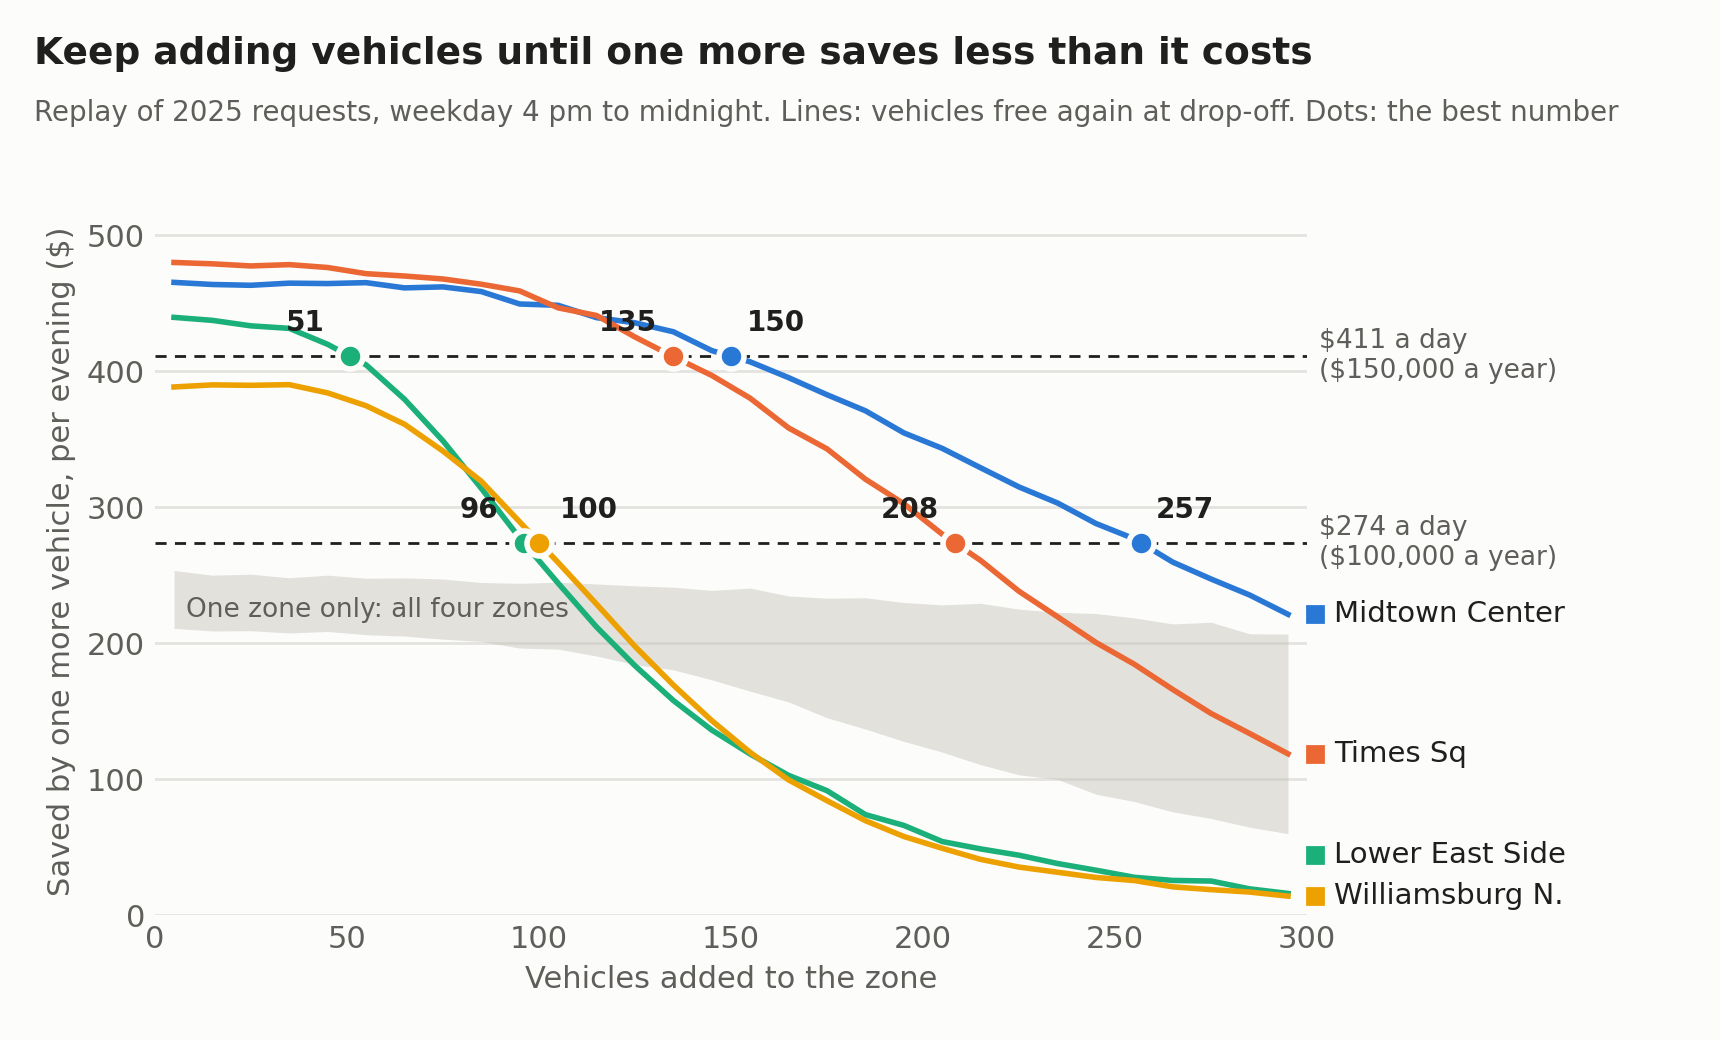
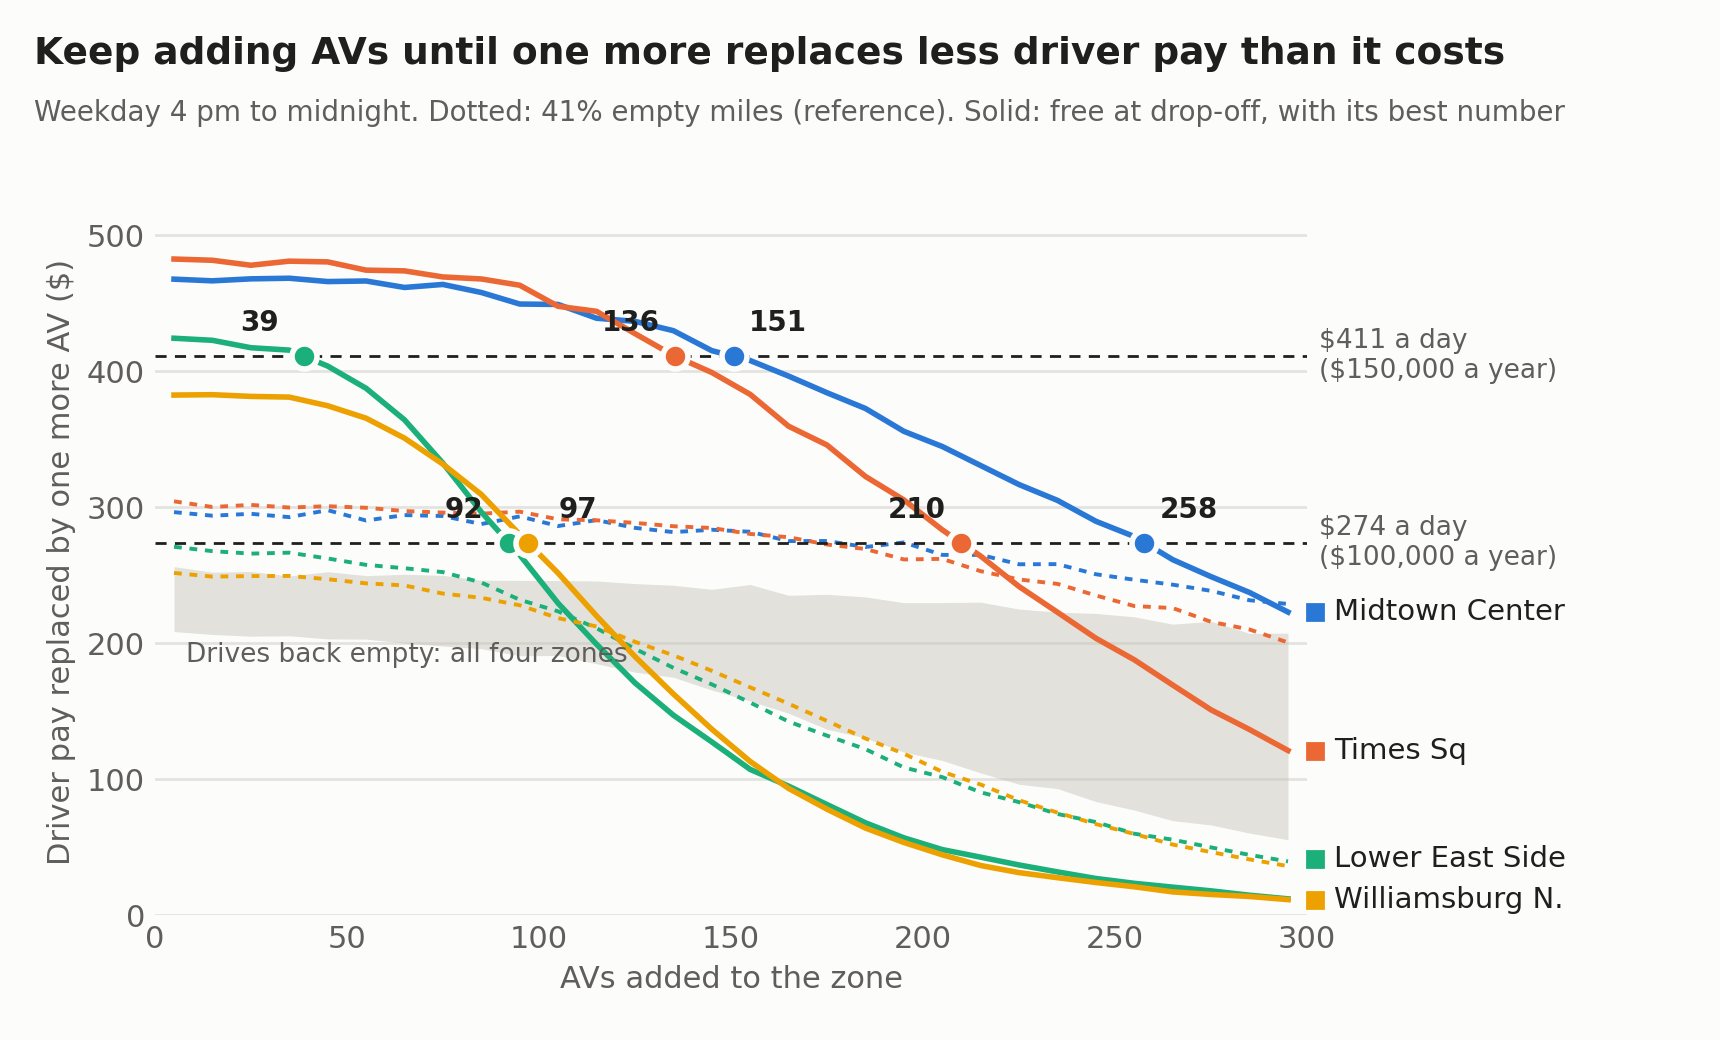
Correct the AV versus driver numbers and add the 41% empty-mile run

diff --git a/_projects/2026-nyc-robotaxi-when-not-where.md b/_projects/2026-nyc-robotaxi-when-not-where.md
@@ -16,7 +16,7 @@ I looked for the places where New York runs short of rides, and I found times of
 - **Busy and slow.** Only 4.4% of trips were both, less than the 6.25% expected by chance, and 81% of them fell in three time blocks.
 - **Weather.** Rain added about 5 seconds to the wait and snow about 16. The gap between time blocks was 98 seconds.
 - **Break-even.** A robotaxi that costs $100,000 a year needs about 14 trips a day; at $150,000 it needs 21.
-- **AV versus driver.** Under my assumptions, in four long-wait zones on weekday evenings one AV takes over trips worth $383 to $476 in driver pay, against a fixed cost of $274 a day, so the AV is cheaper. If it has to drive back empty after each trip, the figure falls to $208–$250 and the driver is cheaper.
+- **AV versus driver.** I replayed real requests with AVs taking over trips in four long-wait zones. With 41% of its miles empty, one AV replaces $248 to $300 of driver pay in a weekday evening, against a fixed cost of $274 a day: about level. The answer turns on how much the AV drives empty ($205–$252 if it drives all the way back, $374–$479 if it never drives empty) and on what it costs.
 
 ## 1. Near stations: more rides, but not a longer wait
 {: #study-scope }
@@ -72,74 +72,67 @@ The first three sections did not find places where cars run short, so I could no
 
 ### How it was run
 
-I cannot put real vehicles on the street, so this was run as a replay. It takes the 4.76 million real trips of 2025 from four zones (Midtown Center, Times Sq/Theatre District, Lower East Side, Williamsburg North Side) and plays the requests back in the order they came in. An added vehicle takes a rider only when it would arrive sooner than the real driver did. Human drivers are assumed not to react.
+I cannot put real vehicles on the street, so this was run as a replay. It takes the 4.76 million real trips of 2025 from four zones (Midtown Center, Times Sq/Theatre District, Lower East Side, Williamsburg North Side) and plays the requests back in the order they came in. An AV takes a rider only when it would arrive sooner than the real driver did. Human drivers are assumed not to react.
 
-One rule changes the result more than anything else: what the vehicle does after it drops a rider off. I ran both ends.
+One rule changes the result more than anything else: what the AV does after it drops a rider off outside the zone. I ran three versions.
 
 | Rule | What it means | Miles driven empty |
 | --- | --- | ---: |
-| Free again at drop-off (main run) | The vehicle can take the next request in the zone right away | 3–6% |
-| One zone only | The vehicle picks up only in its zone, so it drives back empty after almost every trip | about 51% |
-
-The main run is the best case, because a real vehicle has to find its next rider near where it dropped the last one, and those riders are not in my four zones. The one-zone run is the worst case. Waymo's California reports put empty miles at about 41%, so I read the two runs as a range, not as two forecasts.
+| Drives all the way back | The AV picks up only in its zone and returns empty after almost every trip. The lower edge | about 51% |
+| Part of the way back (reference) | The AV needs about two thirds of the trip time before its next request. I set this so that 41% of its miles are empty, the share Waymo reports in California and the share the break-even used | 41% |
+| Free again at drop-off | The AV is back in the zone the moment the rider gets out. This cannot happen; it is the upper edge | 3–7% |
 
 ### AV versus driver: replaced driver pay against fixed cost
 
 For each AV I used the same idea as the break-even: what it leaves = driver pay on the trips it took over − its driving cost − its fixed cost per day.
 
-**Under my assumptions the AV is cheaper.** In all four zones one AV replaces $383 to $476 of driver pay in a weekday evening, against a fixed cost of $274 a day.
+![Driver pay one AV replaces in 8 evening hours under the three rules, against a fixed cost of $274 and $411 a day]({{ '/assets/img/projects/nyc-robotaxi-saved-per-vehicle.png' | relative_url }})
 
-![What one added vehicle saves in 8 evening hours under the two rules, against a fixed cost of $274 and $411 a day]({{ '/assets/img/projects/nyc-robotaxi-saved-per-vehicle.png' | relative_url }})
+Weekday, 4 pm to midnight, 70 AVs in the zone, per AV:
 
-| Zone | Trips in 8 hours, main run | Saved, main run | Saved, one zone only |
-| --- | ---: | ---: | ---: |
-| Midtown Center | 18.7 | $464 | $243 |
-| Times Sq / Theatre District | 18.1 | $476 | $250 |
-| Lower East Side | 21.1 | $421 | $228 |
-| Williamsburg North Side | 20.6 | $383 | $208 |
+| Zone | Trips in 8 hours (reference) | Drives all the way back | Reference, 41% empty | Free at drop-off |
+| --- | ---: | ---: | ---: | ---: |
+| Midtown Center | 12.0 | $245 | $294 | $466 |
+| Times Sq / Theatre District | 11.6 | $252 | $300 | $479 |
+| Lower East Side | 13.9 | $220 | $264 | $405 |
+| Williamsburg North Side | 13.7 | $205 | $248 | $374 |
 
-- **In the main run, one weekday evening covers the day.** Every zone clears $274 a day ($100,000 a year), and three of the four clear $411 ($150,000 a year).
-- **Under the one-zone rule it does not.** The same evening covers 76% to 91% of $274, and the rest would have to come from the other 16 hours, which I did not look at.
-- **The difference is empty driving.** The riders, the fares and the zones are the same in both runs. Only the drive back changes, and it nearly halves the trips a vehicle can take.
-- **Longer waits, larger saving.** Within each zone I compared evenings with short real waits and evenings with long ones. For every extra minute of wait, one AV replaced about $21 more driver pay (about 5%). In Midtown Center it was $434 on short-wait evenings and $505 on long-wait ones. The AV does not take more trips on those evenings; each trip takes longer and pays the driver more.
+- **At 41% empty miles the AV and the driver cost about the same.** One AV replaces $248 to $300 of driver pay in the eight evening hours, against $274 a day ($100,000 a year). That is about $20 to $26 above the cost in Midtown Center and Times Sq, about $10 below in Lower East Side and $26 below in Williamsburg. None reaches $411 ($150,000 a year). Differences this small do not decide it.
+- **The edges are far apart.** If the AV drives all the way back it replaces $205 to $252, and the driver is cheaper. If it never drove empty it would replace $374 to $479, and the AV would be cheaper.
+- **So the answer turns on empty driving and on the assumed cost.** The riders, the fares and the zones are the same in all three versions. Only the time after a drop-off changes.
+- **Only the evening is counted.** $274 is the cost of a whole day, and the pay replaced comes from eight evening hours on weekdays. What the AV does in the other 16 hours would come on top, and I did not look at it.
+- **Evenings with longer waits.** On evenings with longer waits one AV replaced more pay, about $13 more for every extra minute of wait in the reference run (about 5%), although it took fewer trips. Trips are longer and pay the driver more on those evenings. This is a pattern across evenings, not an effect of waiting: it disappears once the evening's level of driver pay is held fixed.
 
 ### How many AVs
 
-The number of AVs in a zone is a whole number n, and I chose it to make this as large as possible: S(n) − c·n, where S(n) is the driver pay that n AVs replace in an evening and c is the fixed cost of one AV per day. S(n) has no formula, because it comes out of the replay, so I ran every n from 10 to 300 in steps of 10 and kept the best one. The rule this gives is simple: keep adding AVs until one more replaces less driver pay than it costs.
+The number of AVs in a zone is a whole number n, and the best one makes this as large as possible: S(n) − c·n, where S(n) is the driver pay that n AVs replace in an evening and c is the fixed cost of one AV per day. S(n) has no formula, because it comes out of the replay, so I ran every n from 10 to 300 in steps of 10 and kept the best one. The rule this gives is simple: keep adding AVs until one more replaces less driver pay than it costs.
 
-![Driver pay replaced by one more AV against vehicles added, four zones, with fixed-cost lines at $274 and $411 a day]({{ '/assets/img/projects/nyc-robotaxi-fleet-size.png' | relative_url }})
+![Driver pay replaced by one more AV against AVs added, four zones, with fixed-cost lines at $274 and $411 a day]({{ '/assets/img/projects/nyc-robotaxi-fleet-size.png' | relative_url }})
 
-| Zone | Requests in an evening | Best number at $274 a day | Best number at $411 a day |
-| --- | ---: | ---: | ---: |
-| Midtown Center | 5,088 | about 260 | about 150 |
-| Times Sq / Theatre District | 4,059 | about 210 | about 130 |
-| Lower East Side | 2,765 | about 100 | about 50 |
-| Williamsburg North Side | 2,901 | about 100 | 0 |
-
-The top of each curve is flat, so these are rough numbers. At the best number the AVs serve 70% to 80% of the zone's requests, which is where the assumption that drivers do not react is weakest. Under the one-zone rule the best number is zero in every zone.
+In the reference run the curves sit within about $25 of the $274 line, so the number of AVs is not pinned down. In Midtown Center the best number is about 180 at $274 a day, about 250 at $249 and zero at $299. If the AV drives all the way back, the best number is zero in every zone. At the upper edge it would be about 90 to 260 per zone, and at that point the AVs would serve 70% to 80% of the zone's requests, which is where the assumption that drivers do not react is weakest.
 
 ### What riders get: shorter waits
 
 The waits were measured a little differently from the money. For the money, AVs take over trips. For the waits, the real drivers are still there and AVs are added on top of them.
 
-![Average wait against vehicles added, weekday 4 pm to midnight, four zones, main run]({{ '/assets/img/projects/nyc-robotaxi-wait-by-vehicles.png' | relative_url }})
+![Average wait against AVs added, weekday 4 pm to midnight, four zones, reference run]({{ '/assets/img/projects/nyc-robotaxi-wait-by-vehicles.png' | relative_url }})
 
-Weekday, 4 pm to midnight, 70 vehicles added:
+Weekday, 4 pm to midnight, 70 AVs added, reference run:
 
-| Zone | Average wait, main run | Average wait, one zone only | Waiting over 5 min 45 s, main run |
+| Zone | Average wait | Waiting over 5 min 45 s | Requests the AVs served |
 | --- | ---: | ---: | ---: |
-| Midtown Center | 320 → 268 s | 320 → 292 s | 33.7% → 24.0% |
-| Times Sq / Theatre District | 336 → 268 s | 336 → 299 s | 36.2% → 24.3% |
-| Lower East Side | 236 → 162 s | 236 → 196 s | 16.8% → 7.4% |
-| Williamsburg North Side | 223 → 166 s | 223 → 193 s | 13.6% → 5.8% |
+| Midtown Center | 320 → 286 s | 33.7% → 27.3% | 17% |
+| Times Sq / Theatre District | 336 → 293 s | 36.2% → 28.4% | 20% |
+| Lower East Side | 236 → 189 s | 16.8% → 10.2% | 35% |
+| Williamsburg North Side | 223 → 186 s | 13.6% → 7.7% | 33% |
 
-In the main run the average wait falls by about 7 to 11 seconds for every 10 vehicles, and by 50 to 75 seconds with 70. Under the one-zone rule it is about half of that. Either way, it takes many vehicles to move the average, because one zone has 2,800 to 5,100 requests in an evening and 70 vehicles serve between a quarter and a half of them.
+The average wait falls by about 5 to 7 seconds for every 10 AVs, and by 33 to 47 seconds with 70. That is less than half of the 98-second gap between time blocks. It takes many AVs to move the average, because one zone has 2,800 to 5,100 requests in an evening.
 
 ### What this does and does not show
 
-Under the assumptions listed here, replacing drivers with AVs is cheaper in the long-wait zones and hours, and more so on evenings when waits are longer. The assumptions are: the AV costs $100,000 a year; it finds its next rider right after each drop-off; it costs $0.15 a mile to drive; drivers do not react and driver pay stays where it is. The second one can reverse the result. Shorter waits are a side effect, and they are measured in seconds.
+With 41% of its miles empty and a cost of $100,000 a year, an AV that takes over evening trips in these zones costs about the same as the drivers it replaces. It is clearly cheaper only if it drives much less empty than that, or costs less. Shorter waits are a side effect, and they are measured in seconds.
 
-It is not a forecast. In the replay a wait can only get shorter, so the direction is built in and only the sizes mean something. The real cost of an AV is not public. And I could not look at the other case, where AVs go where drivers are scarce and serve riders who would otherwise give up, because those riders are not in the data.
+It is not a forecast. In the replay a wait can only get shorter, so the direction is built in and only the sizes mean something. The AV is assumed to know how long the real driver would take, and drivers are assumed not to react. The real cost of an AV is not public. And I could not look at the other case, where AVs go where drivers are scarce and serve riders who would otherwise give up, because those riders are not in the data.
 
 ## 6. Limits
 {: #study-limits }
